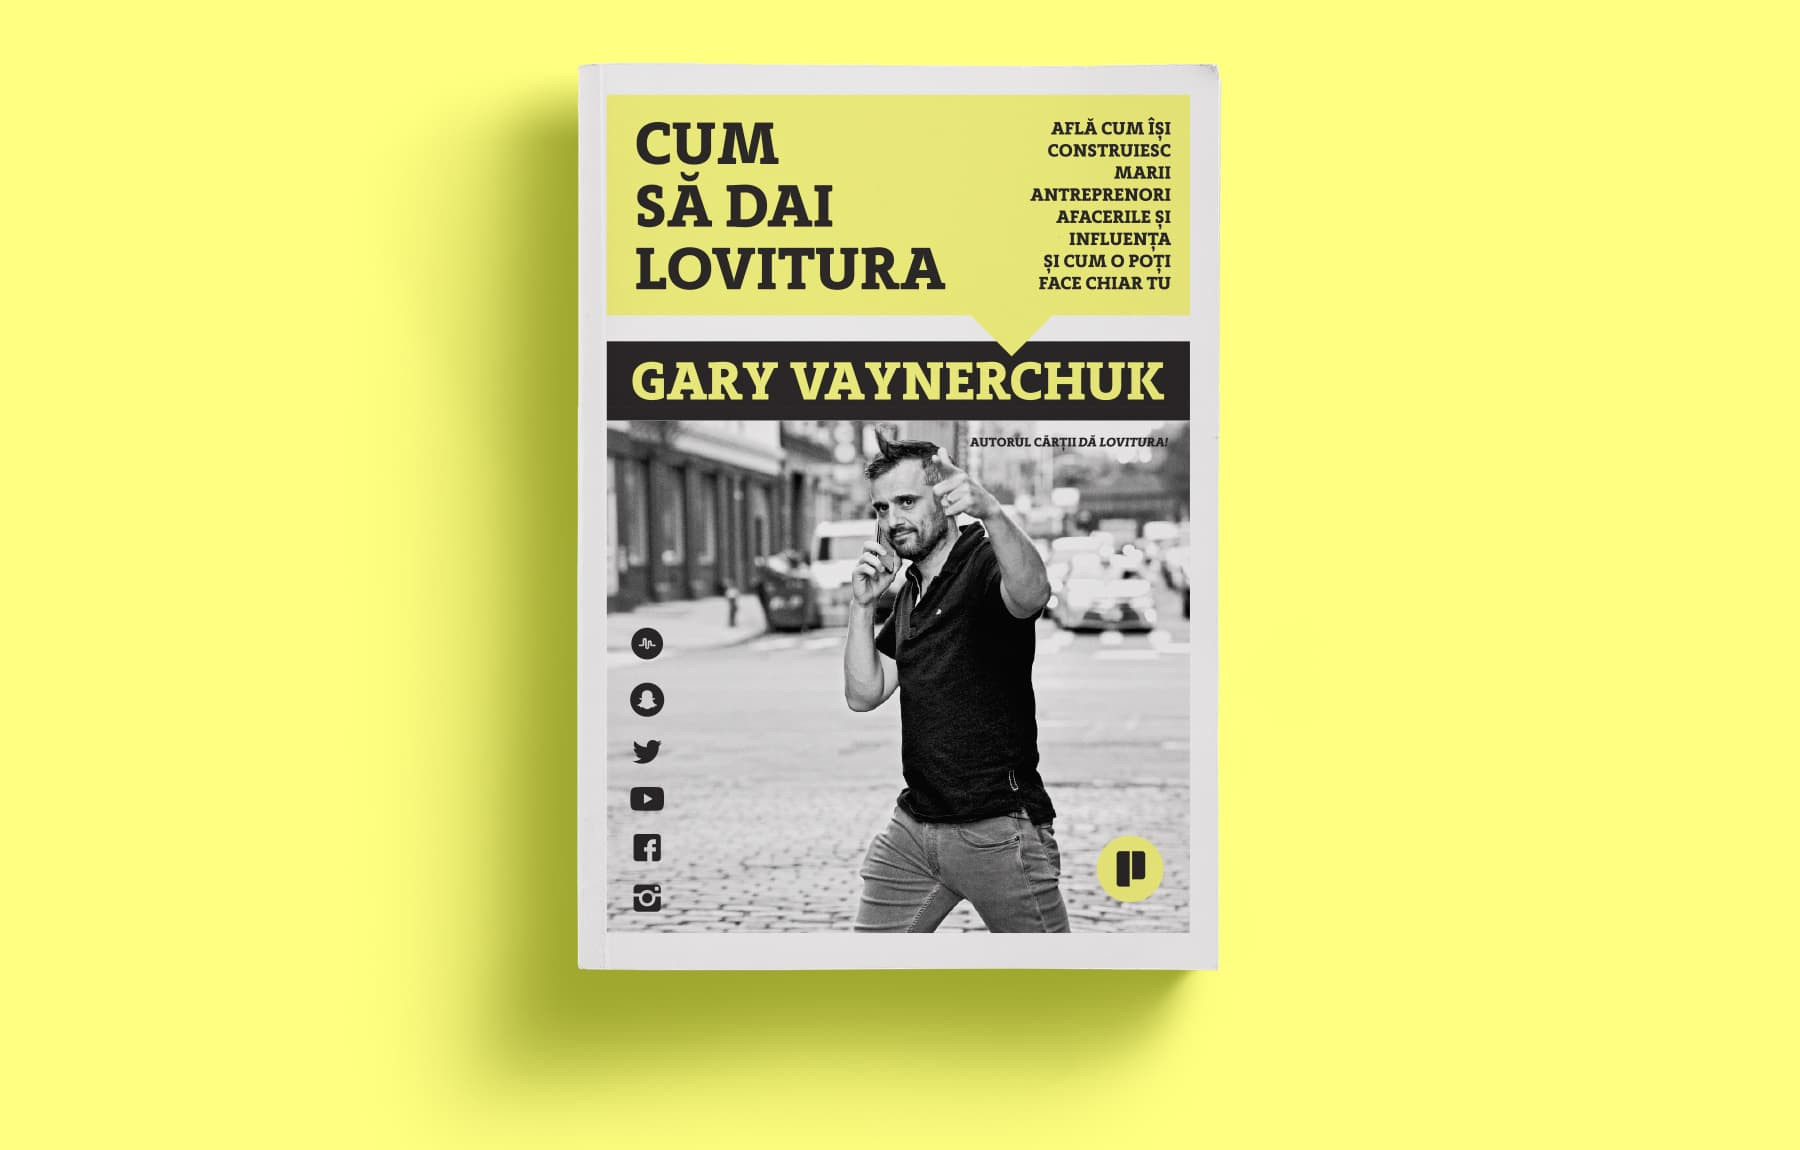
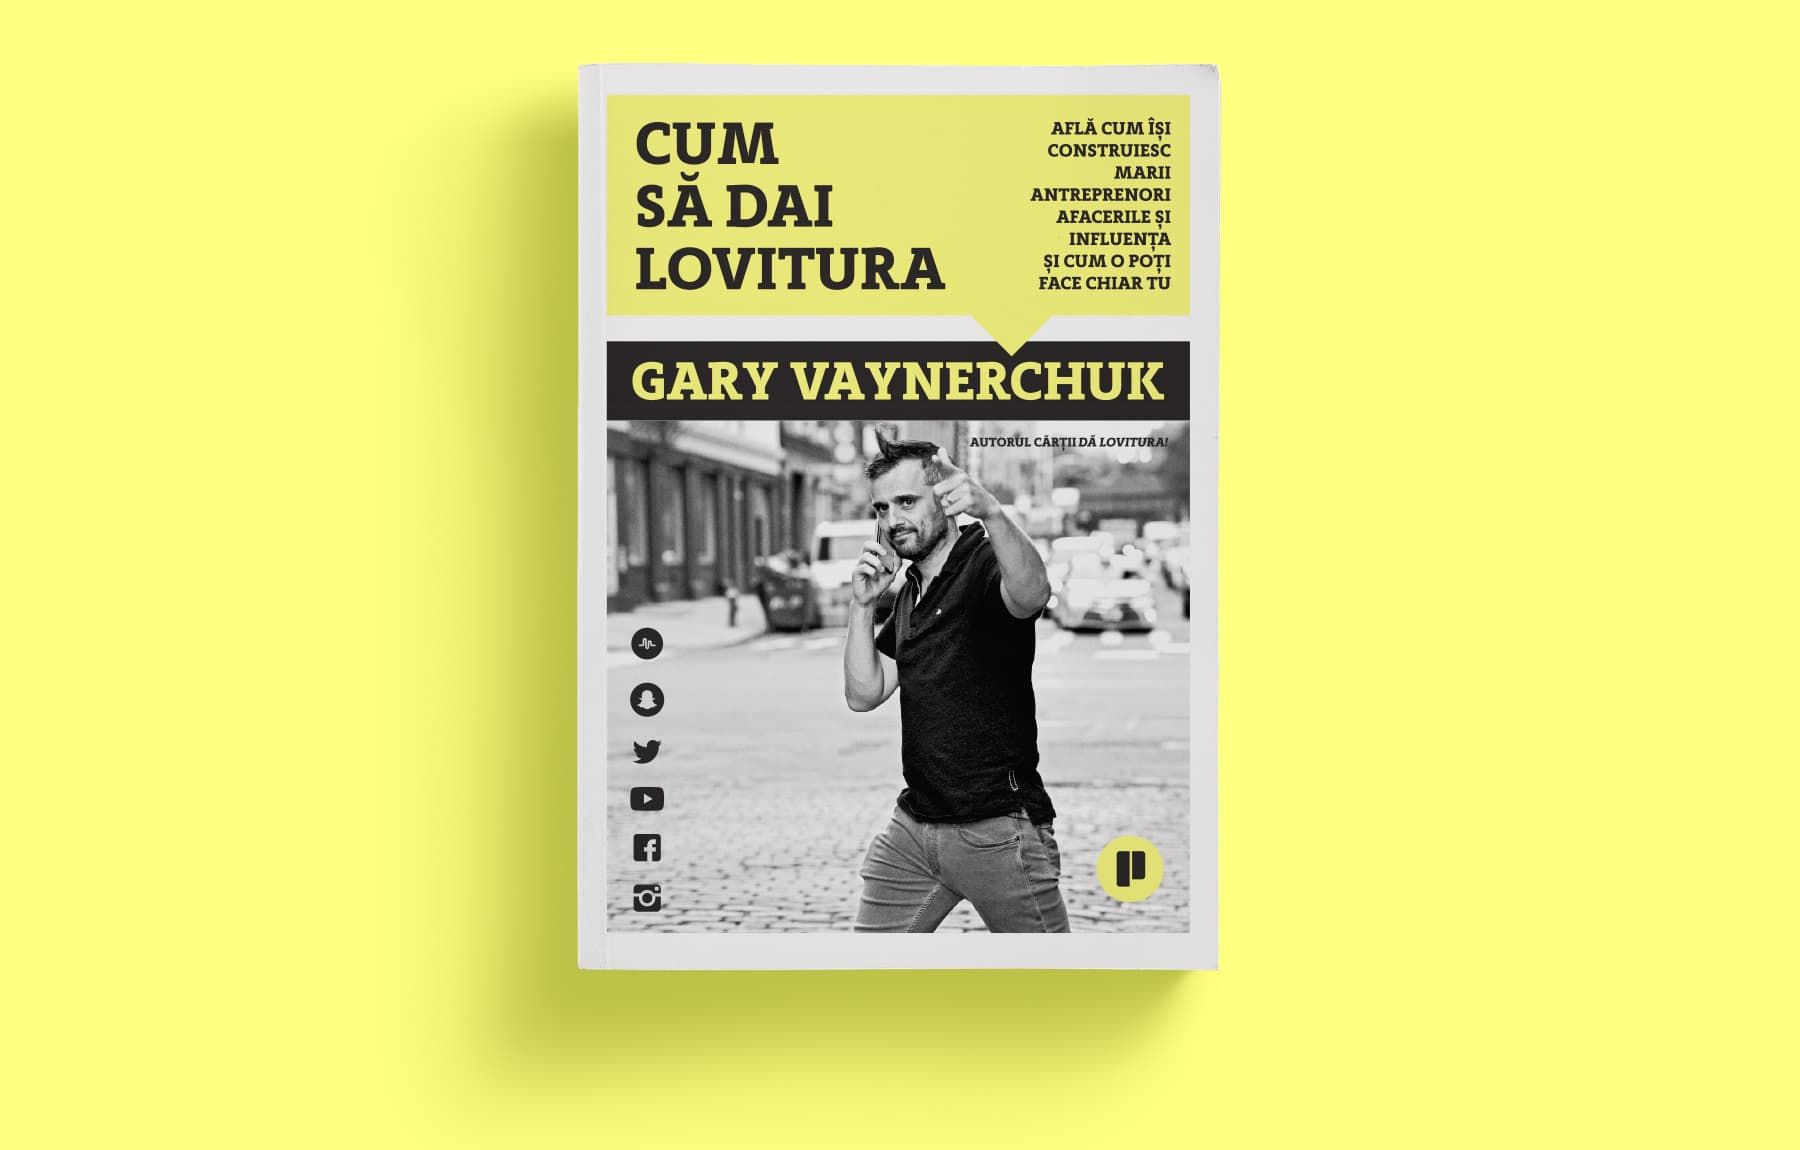
2018-10-18: Fixed hero image shadow cutoff, fixed hero image alt text color (R).

Changed region(s): [[0.28, 0.1217, 0.6533, 0.913]]

diff --git a/2018/10-18/publica-20181018-regular.html b/2018/10-18/publica-20181018-regular.html
@@ -370,7 +370,7 @@
                               min-width: 100px;
 
                               background-color: #FFFF81;
-                              color: #ffffff;
+                              color: #292526;
 
                               font-family: 'Merriweather', serif;
                               font-size: 15px;
